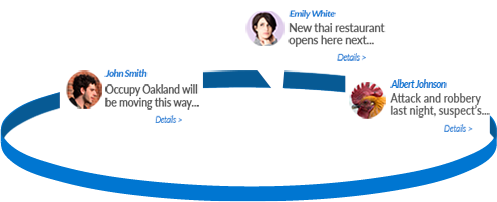
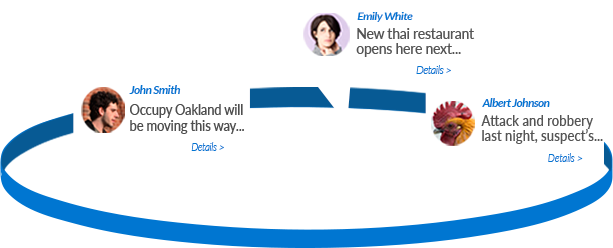
update desktop template for login page

diff --git a/web/www/css/global.uncompressed.css b/web/www/css/global.uncompressed.css
@@ -941,7 +941,7 @@ body.hideRight .footer .footerLinks {
 
 .special-footer .loginFtr ul li:first-child {margin-left: 100px;}
 
-.special-footer .loginFtr ul li a {color: #fff; font-size: 15px; text-decoration: none;}
+.special-footer .loginFtr ul li a {color: #fff; font-size: 16px; text-decoration: none;}
 
 .special-footer .loginFtr ul li .ftrCopyRight { color: #fff; float: none; margin: 0px; font-size: 15px;}
 
@@ -1094,6 +1094,7 @@ body.page.about {
 	font-family: 'Lato-Bold', sans-serif;
 	color: #fff;
 	margin-top: 22px;
+	text-shadow: 0px 0px 4px #000;
 }
 
 .loginCopyArea .regForm{width:400px;float:right; background: #efeeee; padding:30px 0px 20px;margin-right: -100px;}
@@ -2115,9 +2116,7 @@ input[type=submit], input[type=button] {
 	padding: 6px 0;
 	font-size: 18px;
 }
-.fbImageMw {
-	padding: 0px 32px 0px 40px;
-}
+
 .ui_image {
 	width: 50px;
 	padding: 8px;
@@ -2333,6 +2332,7 @@ body.error .mainContainer > img {
 	vertical-align: middle;
 	font-size: 32px;
 	color: #ffffff;
+	text-shadow: 0 0 4px #000;
 }
 .app img {
 	margin-left: 15px;
@@ -2348,6 +2348,9 @@ body.error .mainContainer > img {
 }
 #regForm {
 	padding: 0px 35px;
+}
+.fbImageMw {
+  padding: 0px 32px 0px 40px;
 }
 .special-footer .loginFtr ul li:first-child {
 	margin-left: 60px;
@@ -2400,9 +2403,9 @@ body.error .mainContainer > img {
 }
 .users-popup {
   background: url('../images/users-popup.png') no-repeat center top;
-  width: 497px;
-  height: 202px;
-  margin-left: -60px;
+  width: 613px;
+  height: 248px;
+  margin-left: -140px;
 }
 .loginCopyArea .leftBoxArea .fbImageMw img {
   width: 153px;
